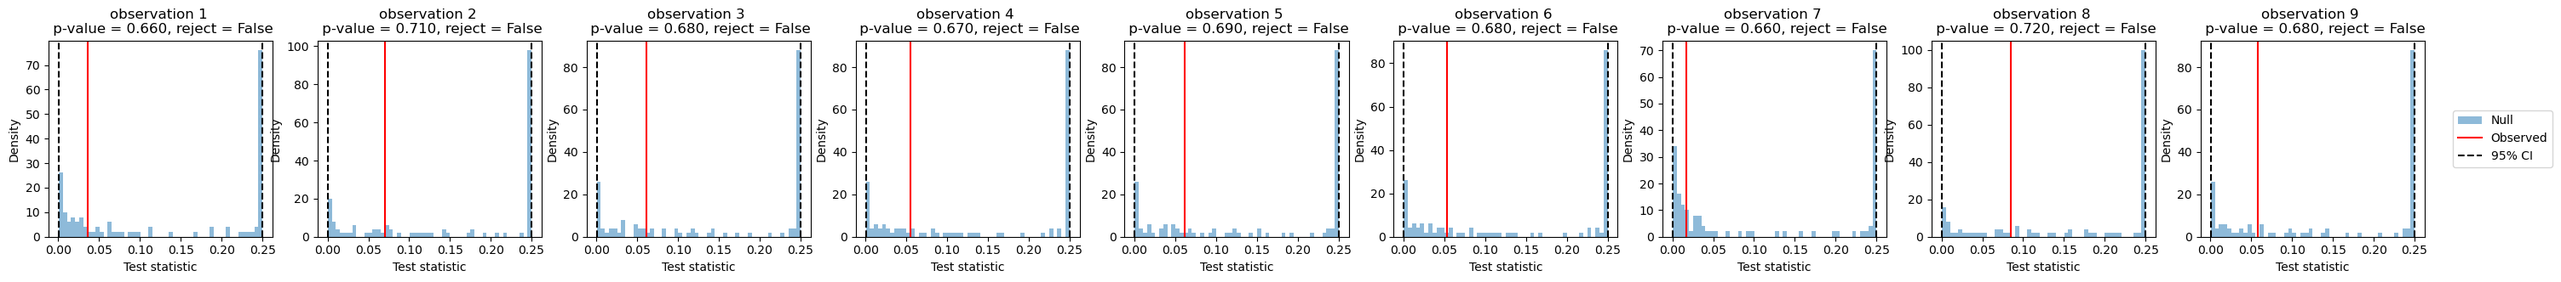
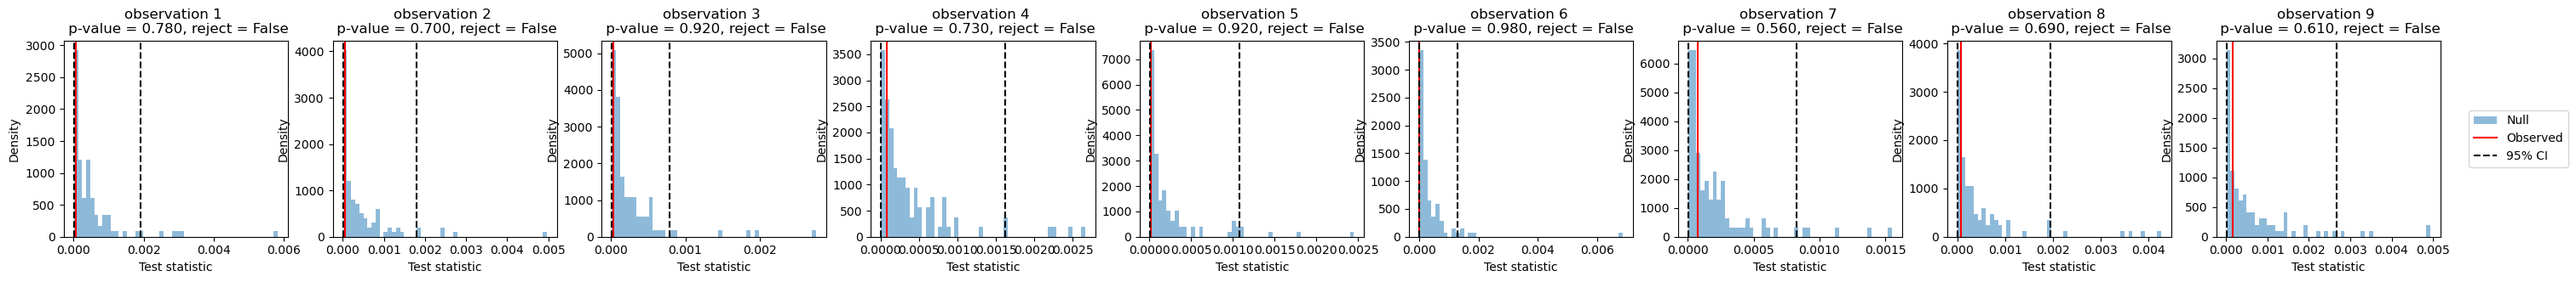
Simplify mortality model (success)
- removed density dependence entirely
- also start updates on fecundity

diff --git a/model_fitting/lc2st.py b/model_fitting/lc2st.py
@@ -11,20 +11,23 @@ from sbi.utils.analysis_utils import get_probs_per_marginal
 import os
 
 overwrite = True
-processes = ['mortality']
+processes = ['fecundity']
 for pr in processes:
     if pr == 'mortality':
         from mortality.simulator import simulator, fixed
-        labels = ['alph_m', 'beta_m', 'sigm_m', 'gamm_nu', 'kappa', 'K_adult']
-        NUM_CAL = 10_000
+        #labels = ['alph_m', 'beta_m', 'sigm_m', 'gamm_nu', 'kappa', 'K_adult']
+        NUM_CAL = 3_000
     elif pr == 'fecundity':
-        from fecundity.simulator import simulator
-        fixed = {}
-        labels = ['rho_max', 'eta_rho', 'a_mature', 'sigm_max', 'eta_sigm']
+        from fecundity.simulator import simulator, fixed
+        #fixed = {}
+        #labels = ['rho_max', 'eta_rho', 'a_mature', 'sigm_max', 'eta_sigm']
         NUM_CAL = 2_000
     with open(pr+"/restricted_prior.pkl", "rb") as handle:
         prior = pickle.load(handle)
     simulator = utils.user_input_checks.process_simulator(simulator, prior, is_numpy_simulator=True)
+
+    with open(pr+"/param_labels.pkl", 'rb') as handle:
+        labels = pickle.load(handle)
 
     with open(pr+"/posterior.pkl", "rb") as handle:
         posterior = pickle.load(handle)
@@ -194,55 +197,74 @@ for pr in processes:
             label=label
         )
 
-        # marginal 1
-        marginal_plot_with_probs_intensity(
-            dict_probs_marginals['0'],
-            marginal_dim=1,
-            ax=axes[i][1],
-            n_bins=50,
-            label=label,
-        )
+        for j in range(len(labels)):
+            # marginal 1
+            marginal_plot_with_probs_intensity(
+                dict_probs_marginals[f'{j}'],
+                marginal_dim=1,
+                ax=axes[i][j+1],
+                n_bins=50,
+                label=label,
+            )
 
-        # marginal 2
-        marginal_plot_with_probs_intensity(
-            dict_probs_marginals['1'],
-            marginal_dim=1,
-            ax=axes[i][2],
-            n_bins=50,
-            label=label,
-        )
+        ## marginal 1
+        #marginal_plot_with_probs_intensity(
+        #    dict_probs_marginals['0'],
+        #    marginal_dim=1,
+        #    ax=axes[i][1],
+        #    n_bins=50,
+        #    label=label,
+        #)
 
-        marginal_plot_with_probs_intensity(
-            dict_probs_marginals['2'],
-            marginal_dim=1,
-            ax=axes[i][3],
-            n_bins=50,
-            label=label,
-        )
+        ## marginal 1
+        #marginal_plot_with_probs_intensity(
+        #    dict_probs_marginals['0'],
+        #    marginal_dim=1,
+        #    ax=axes[i][1],
+        #    n_bins=50,
+        #    label=label,
+        #)
 
-        marginal_plot_with_probs_intensity(
-            dict_probs_marginals['3'],
-            marginal_dim=1,
-            ax=axes[i][4],
-            n_bins=50,
-            label=label,
-        )
+        ## marginal 2
+        #marginal_plot_with_probs_intensity(
+        #    dict_probs_marginals['1'],
+        #    marginal_dim=1,
+        #    ax=axes[i][2],
+        #    n_bins=50,
+        #    label=label,
+        #)
 
-        marginal_plot_with_probs_intensity(
-            dict_probs_marginals['4'],
-            marginal_dim=1,
-            ax=axes[i][5],
-            n_bins=50,
-            label=label,
-        )
+        #marginal_plot_with_probs_intensity(
+        #    dict_probs_marginals['2'],
+        #    marginal_dim=1,
+        #    ax=axes[i][3],
+        #    n_bins=50,
+        #    label=label,
+        #)
 
-        marginal_plot_with_probs_intensity(
-            dict_probs_marginals['5'],
-            marginal_dim=1,
-            ax=axes[i][6],
-            n_bins=50,
-            label=label,
-        )
+        #marginal_plot_with_probs_intensity(
+        #    dict_probs_marginals['3'],
+        #    marginal_dim=1,
+        #    ax=axes[i][4],
+        #    n_bins=50,
+        #    label=label,
+        #)
+
+        #marginal_plot_with_probs_intensity(
+        #    dict_probs_marginals['4'],
+        #    marginal_dim=1,
+        #    ax=axes[i][5],
+        #    n_bins=50,
+        #    label=label,
+        #)
+
+        #marginal_plot_with_probs_intensity(
+        #    dict_probs_marginals['5'],
+        #    marginal_dim=1,
+        #    ax=axes[i][6],
+        #    n_bins=50,
+        #    label=label,
+        #)
 
     axes[0][1].set_title("marginal 1")
     axes[0][2].set_title("marginal 2")

diff --git a/model_fitting/sbi_main.py b/model_fitting/sbi_main.py
@@ -13,21 +13,19 @@ import pandas as pd
 import os
 from scipy.stats import moment
 
-overwrite_observations = False
+overwrite_observations = True
 overwrite_simulations = True
 overwrite_posterior = True
 add_simulations = False
 
-processes = ['mortality']
+processes = ['fecundity']
 for pr in processes:
     if pr == 'mortality':
         from mortality.simulator import simulator, h_o
-        labels = ['alph_m', 'beta_m', 'sigm_m', 'gamm_nu', 'kappa', 'K_adult'] 
-        #labels = ['sigm_m', 'gamm_nu', 'kappa'] 
-        #labels = ['gamm_nu', 'kappa'] 
+        labels = ['alph_m', 'beta_m', 'sigm_m'] 
         ranges = np.array([
                            # alph_m
-                           [0.01, 0.6], 
+                           [0.01, 0.7], 
                            # beta_m
                            [0.01, 0.9], 
                            # sigm_m
@@ -36,31 +34,36 @@ for pr in processes:
                            #[0.01,2.]#,
                            ## beta_nu
                            #[0.01,0.9]
-                           # gamm_nu
-                           [0.001, 0.8],
+                           ## gamm_nu
+                           #[0.001, 0.8],
                            ## K_seedling
                            #[10_000, 120_000],
-                           # kappa
-                           [0.01, 2.5],
-                           # K_adult
-                           [(0.1/h_o)*10_000, (3/h_o)*10_000]
+                           ## kappa
+                           #[0.01, 2.5],
+                           ## K_adult
+                           #[(0.1/h_o)*10_000, (3/h_o)*10_000]
         ])
-        restrictor_sims = 50_000
-        training_sims = 70_000
-        num_samples = 1_000_000 
-    elif pr == 'fecundity':
-        from fecundity.simulator import simulator, save_observations
-        labels = ['rho_max', 'eta_rho', 'a_mature', 'sigm_max', 'eta_sigm']#, 'a_sigm_star']
-        ranges = np.array([
-                           [100, 600],
-                           [0.01, 0.8],
-                           [15, 80],
-                           [0.01, 5],
-                           [0.01, 0.8]
-        ])
-        restrictor_sims = 20_000
+        restrictor_sims = 10_000
         training_sims = 20_000
         num_samples = 1_000_000 
+        allowed_false_negatives = 0.0
+    elif pr == 'fecundity':
+        from fecundity.simulator import simulator, save_observations
+        labels = ['rho_max', 'eta_rho', 'a_mature', 'sigm_max']#, 'eta_sigm']#, 'a_sigm_star']
+        ranges = np.array([
+                           [10, 700],
+                           [0.01, 0.8],
+                           [15, 60],
+                           [0.01, 9]
+                           #[0.01, 0.8]
+        ])
+        restrictor_sims = 10_000
+        training_sims = 20_000
+        num_samples = 1_000_000 
+        allowed_false_negatives = 0.15
+
+    with open(pr+"/param_labels.pkl", "wb") as handle:
+        pickle.dump(labels, handle)
 
     # First, compute and store summary statistics of observed data
     fn = pr + '/observations/observations.npy'
@@ -100,7 +103,7 @@ for pr in processes:
         restriction_estimator = RestrictionEstimator(prior=prior)
         restriction_estimator.append_simulations(theta, x)
         classifier = restriction_estimator.train()
-        restricted_prior = restriction_estimator.restrict_prior()
+        restricted_prior = restriction_estimator.restrict_prior(allowed_false_negatives=allowed_false_negatives)
         with open(pr+"/restricted_prior.pkl", "wb") as handle:
             pickle.dump(restricted_prior, handle)
         new_theta, new_x = simulate_for_sbi(simulator, restricted_prior, training_sims, num_workers=8)

diff --git a/sensitivity/model.py b/sensitivity/model.py
@@ -24,7 +24,8 @@ class Model:
         self.alph_m = kwargs['alph_m']; self.beta_m = kwargs['beta_m']; self.gamm_m = kwargs['gamm_m']
         self.sigm_m = kwargs['sigm_m']; self.tau_m = kwargs['tau_m']; self.mu_m = kwargs['mu_m']
         self.alph_nu = kwargs['alph_nu']; self.beta_nu = kwargs['beta_nu']; self.gamm_nu = kwargs['gamm_nu']
-        self.K_seedling = kwargs['K_seedling']; self.kappa = kwargs['kappa']; self.K_adult = kwargs['K_adult']
+        self.K_seedling = kwargs['K_adult']*6 #NEED TO UDPATE FIXED PKL 
+        self.kappa = kwargs['kappa']; self.K_adult = kwargs['K_adult']
         # Fecundity parameters
         self.rho_max = kwargs['rho_max']; self.eta_rho = kwargs['eta_rho']; self.a_mature = kwargs['a_mature']
         self.sigm_max = kwargs['sigm_max']; self.eta_sigm = kwargs['eta_sigm']; 
@@ -95,7 +96,7 @@ class Model:
         nu_a = self.alph_nu * np.exp(-self.beta_nu*self.t_vec) + self.gamm_nu
         # Use linear approx to set eta s.t. shape of dens. dep. curve is 
         # the same for arbitrary effective patch size
-        eta_a = 2 / ((nu_a*(1-m_a)) * self.A_eff * self.K_adult)
+        eta_a = 2 / ((nu_a*(1-m_a)) * self.Aeff * self.K_adult)
         sigm_m_a = self.sigm_m*np.exp(-self.tau_m*self.t_vec)
         epsilon_m_vec = rng.lognormal(np.zeros_like(N_vec)+self.mu_m, np.tile(sigm_m_a, (len(self.N_0_1),1)))
         # Make it deterministic
@@ -193,7 +194,7 @@ class Model:
                 m_t = self.alph_m * np.exp(-self.beta_m*t) + self.gamm_m
                 K_t = self.K_seedling * np.exp(-self.kappa*t) + self.K_adult
                 nu_t = self.alph_nu * np.exp(-self.beta_nu*t) + self.gamm_nu
-                eta_t = 2 / ((nu_t*(1-m_t)) * self.A_eff * self.K_adult)
+                eta_t = 2 / ((nu_t*(1-m_t)) * self.Aeff * self.K_adult)
                 dens_dep = ((nu_t)*(1-m_t)) / (1 + np.exp(-eta_t*self.K_adult*(N/K_t - self.Aeff)))
                 m_t_N = m_t + dens_dep
                 sigm_m_t = self.sigm_m*np.exp(-self.tau_m*t)

diff --git a/model_fitting/mortality/simulator.py b/model_fitting/mortality/simulator.py
@@ -13,7 +13,8 @@ sdm_otay = sdm[otay==1] #index "1" indicates the specific part where study was d
 h_o = np.mean(sdm_otay[sdm_otay!=0]) #excluding zero, would be better to use SDM w/o threshold
 
 fixed = {'gamm_m': 0.01, 'tau_m': 0.0, 'mu_m': 0.0, 
-         'alph_nu': 0.0, 'beta_nu': 0.0}
+         'alph_nu': 0.0, 'beta_nu': 0.0, 'gamm_nu': 0.0, 
+         'kappa': 0.0, 'K_adult': 1.0, 'K_seedling': 0.0}
          #'K_seedling': 60_000/h_o, 'K_adult': 10_000/h_o}
 with open('mortality/fixed.pkl', 'wb') as handle:
     pickle.dump(fixed, handle)
@@ -22,8 +23,8 @@ def simulator(params):
     # Assign parameter labels
     alph_m = params[0]; beta_m = params[1]; gamm_m = fixed['gamm_m']
     sigm_m = params[2]; tau_m = fixed['tau_m']; mu_m = fixed['mu_m']
-    alph_nu = fixed['alph_nu']; beta_nu = fixed['beta_nu']; gamm_nu = params[3]
-    K_seedling = 6*params[5]; kappa = params[4]; K_adult = params[5]; 
+    alph_nu = fixed['alph_nu']; beta_nu = fixed['beta_nu']; gamm_nu = fixed['gamm_nu']
+    K_seedling = fixed['K_seedling']; kappa = fixed['kappa']; K_adult = fixed['K_adult']; 
 
     # For generating env stochasticity multipliers
     rng = np.random.default_rng()
@@ -52,8 +53,8 @@ def simulator(params):
     nu_a = alph_nu * np.exp(-beta_nu*t_vec) + gamm_nu
     # Use linear approx to set eta s.t. shape of dens. dep. curve is 
     # the same for arbitrary effective patch size
-    delta, theta = (1.05, 0.050000000000000044) #just hardcoding these in
-    eta_a = (theta*2)/((nu_a*(1-m_a)) * (A_o*h_o*K_adult) * (delta-1))
+    #eta_a = 2 / ((nu_a*(1-m_a)) * (A_o*h_o) * K_adult)
+    eta_a = np.repeat(1, len(m_a))
     sigm_m_a = sigm_m*np.exp(-tau_m*t_vec)
     epsilon_m_vec = rng.lognormal(np.zeros_like(N_vec)+mu_m, np.tile(sigm_m_a, (len(N_0_1),1)))
 

diff --git a/sensitivity/phase.py b/sensitivity/phase.py
@@ -11,8 +11,10 @@ from tqdm import tqdm
 constants = {}
 constants['progress'] = False
 constants['c'] = 1.42
-constants['Aeff'] = 1.0
-constants['t_final'] = 600
+#constants['Aeff'] = 1.0
+constants['Aeff'] = 7.29
+#constants['t_final'] = 600
+constants['t_final'] = 300
 constants['sim_method'] = 'nint'
 constants['ul_coord'] = [1500, 2800]
 constants['lr_coord'] = [2723, 3905]
@@ -31,8 +33,8 @@ constants['baseline_A_samples'] = 10
 constants['root'] = 0 #For mpi
 constants.update({'final_max_tau': np.nan})
 constants['overwrite_results'] = True
-constants['meta_metric'] = 'distribution_avg'
-#constants['meta_metric'] = 'gte_threshold'
+#constants['meta_metric'] = 'distribution_avg'
+constants['meta_metric'] = 'gte_threshold'
 
 # Define metrics and tauc methods to run analysis on
 #metrics = ["lambda_s", "mu_s", "r"]
@@ -56,7 +58,7 @@ num_computations_finished = 0
 with tqdm(total=total_computations) as pbar:
     for metric in metrics:
         constants.update({'metric': metric})
-        constants.update({'overwrite_metrics': False}) #Set True to overwrite metrics (only once per metric)
+        constants.update({'overwrite_metrics': True}) #Set True to overwrite metrics (only once per metric)
         constants.update({'overwrite_scaleparams': False}) 
         for (tauc_method_i, tauc_method) in enumerate(tauc_methods):
             if tauc_method_i > 0:

diff --git a/sensitivity/project.py b/sensitivity/project.py
@@ -50,7 +50,9 @@ def run_sims(job):
 
     for b in b_vec:
         # Skip if simulations already run at this b value
-        if str(b) in list(job.data['N_tot'].keys()): continue
+        if 'frac_extirpated' in list(job.data.keys()):
+            if str(b) in list(job.data['frac_extirpated'].keys()): 
+                continue
         model = Model(**params)
         model.set_effective_area(Aeff)
         model.init_N(N_0_1_vec, init_age)
@@ -256,6 +258,7 @@ class Phase:
 
             jobs = project.find_jobs({'doc.simulated': True, 'Aeff': self.Aeff, 
                                       't_final': self.t_final, 'method': self.sim_method})
+            print(len(jobs))
             self.data_dir = f"data/Aeff_{self.Aeff}/tfinal_{self.t_final}"
             fn = self.data_dir + "/all_tau.npy"
             if (not os.path.isfile(fn)) or self.overwrite_metrics:
@@ -304,6 +307,7 @@ class Phase:
                 ax.set_xlabel('<FRI>')
                 ax.set_ylabel(self.metric)
                 figs_dir = f"figs/Aeff_{self.Aeff}/tfinal_{self.t_final}/metric_{self.metric}/"
+                print(figs_dir)
                 if not os.path.isdir(figs_dir):
                     os.makedirs(figs_dir)
                 print("saving sensitivity figure")

diff --git a/sensitivity/init.py b/sensitivity/init.py
@@ -22,11 +22,11 @@ A_cell = 270**2 / 10_000 #Ha
 sdm_min = 0.32649827003479004 
 sdm_mean = 0.51
 #Aeff_vec = np.array([np.round(A_cell*sdm_min, 2)])
-#Aeff_vec = np.array([np.round(A_cell, 2)])
+Aeff_vec = np.array([np.round(A_cell, 2)])
 #Aeff_vec = np.array([np.round((4*A_cell)*sdm_mean, 2)])
-Aeff_vec = np.array([1.0])
+#Aeff_vec = np.array([1.0])
 t_final_vec = np.array([300])
-demographic_samples_vec = np.array([500])
+demographic_samples_vec = np.array([150])
 method_vec = ["nint"]
 #for Aeff, t_final, demographic_samples in zip(Aeff_vec, t_final_vec, demographic_samples_vec):
 for Aeff, t_final, demographic_samples, method in product(Aeff_vec, t_final_vec, 
@@ -38,7 +38,7 @@ for Aeff, t_final, demographic_samples, method in product(Aeff_vec, t_final_vec,
     except TypeError:
         # If existing_samples has no len, no jobs with these specifications exist
         pass
-    mort_labels = ['alph_m', 'beta_m', 'sigm_m', 'gamm_nu', 'kappa']
+    mort_labels = ['alph_m', 'beta_m', 'sigm_m', 'gamm_nu', 'kappa', 'K_adult']
     fec_labels = ['rho_max', 'eta_rho', 'a_mature', 'sigm_max', 'eta_sigm']
 
     if demographic_samples > 0:
